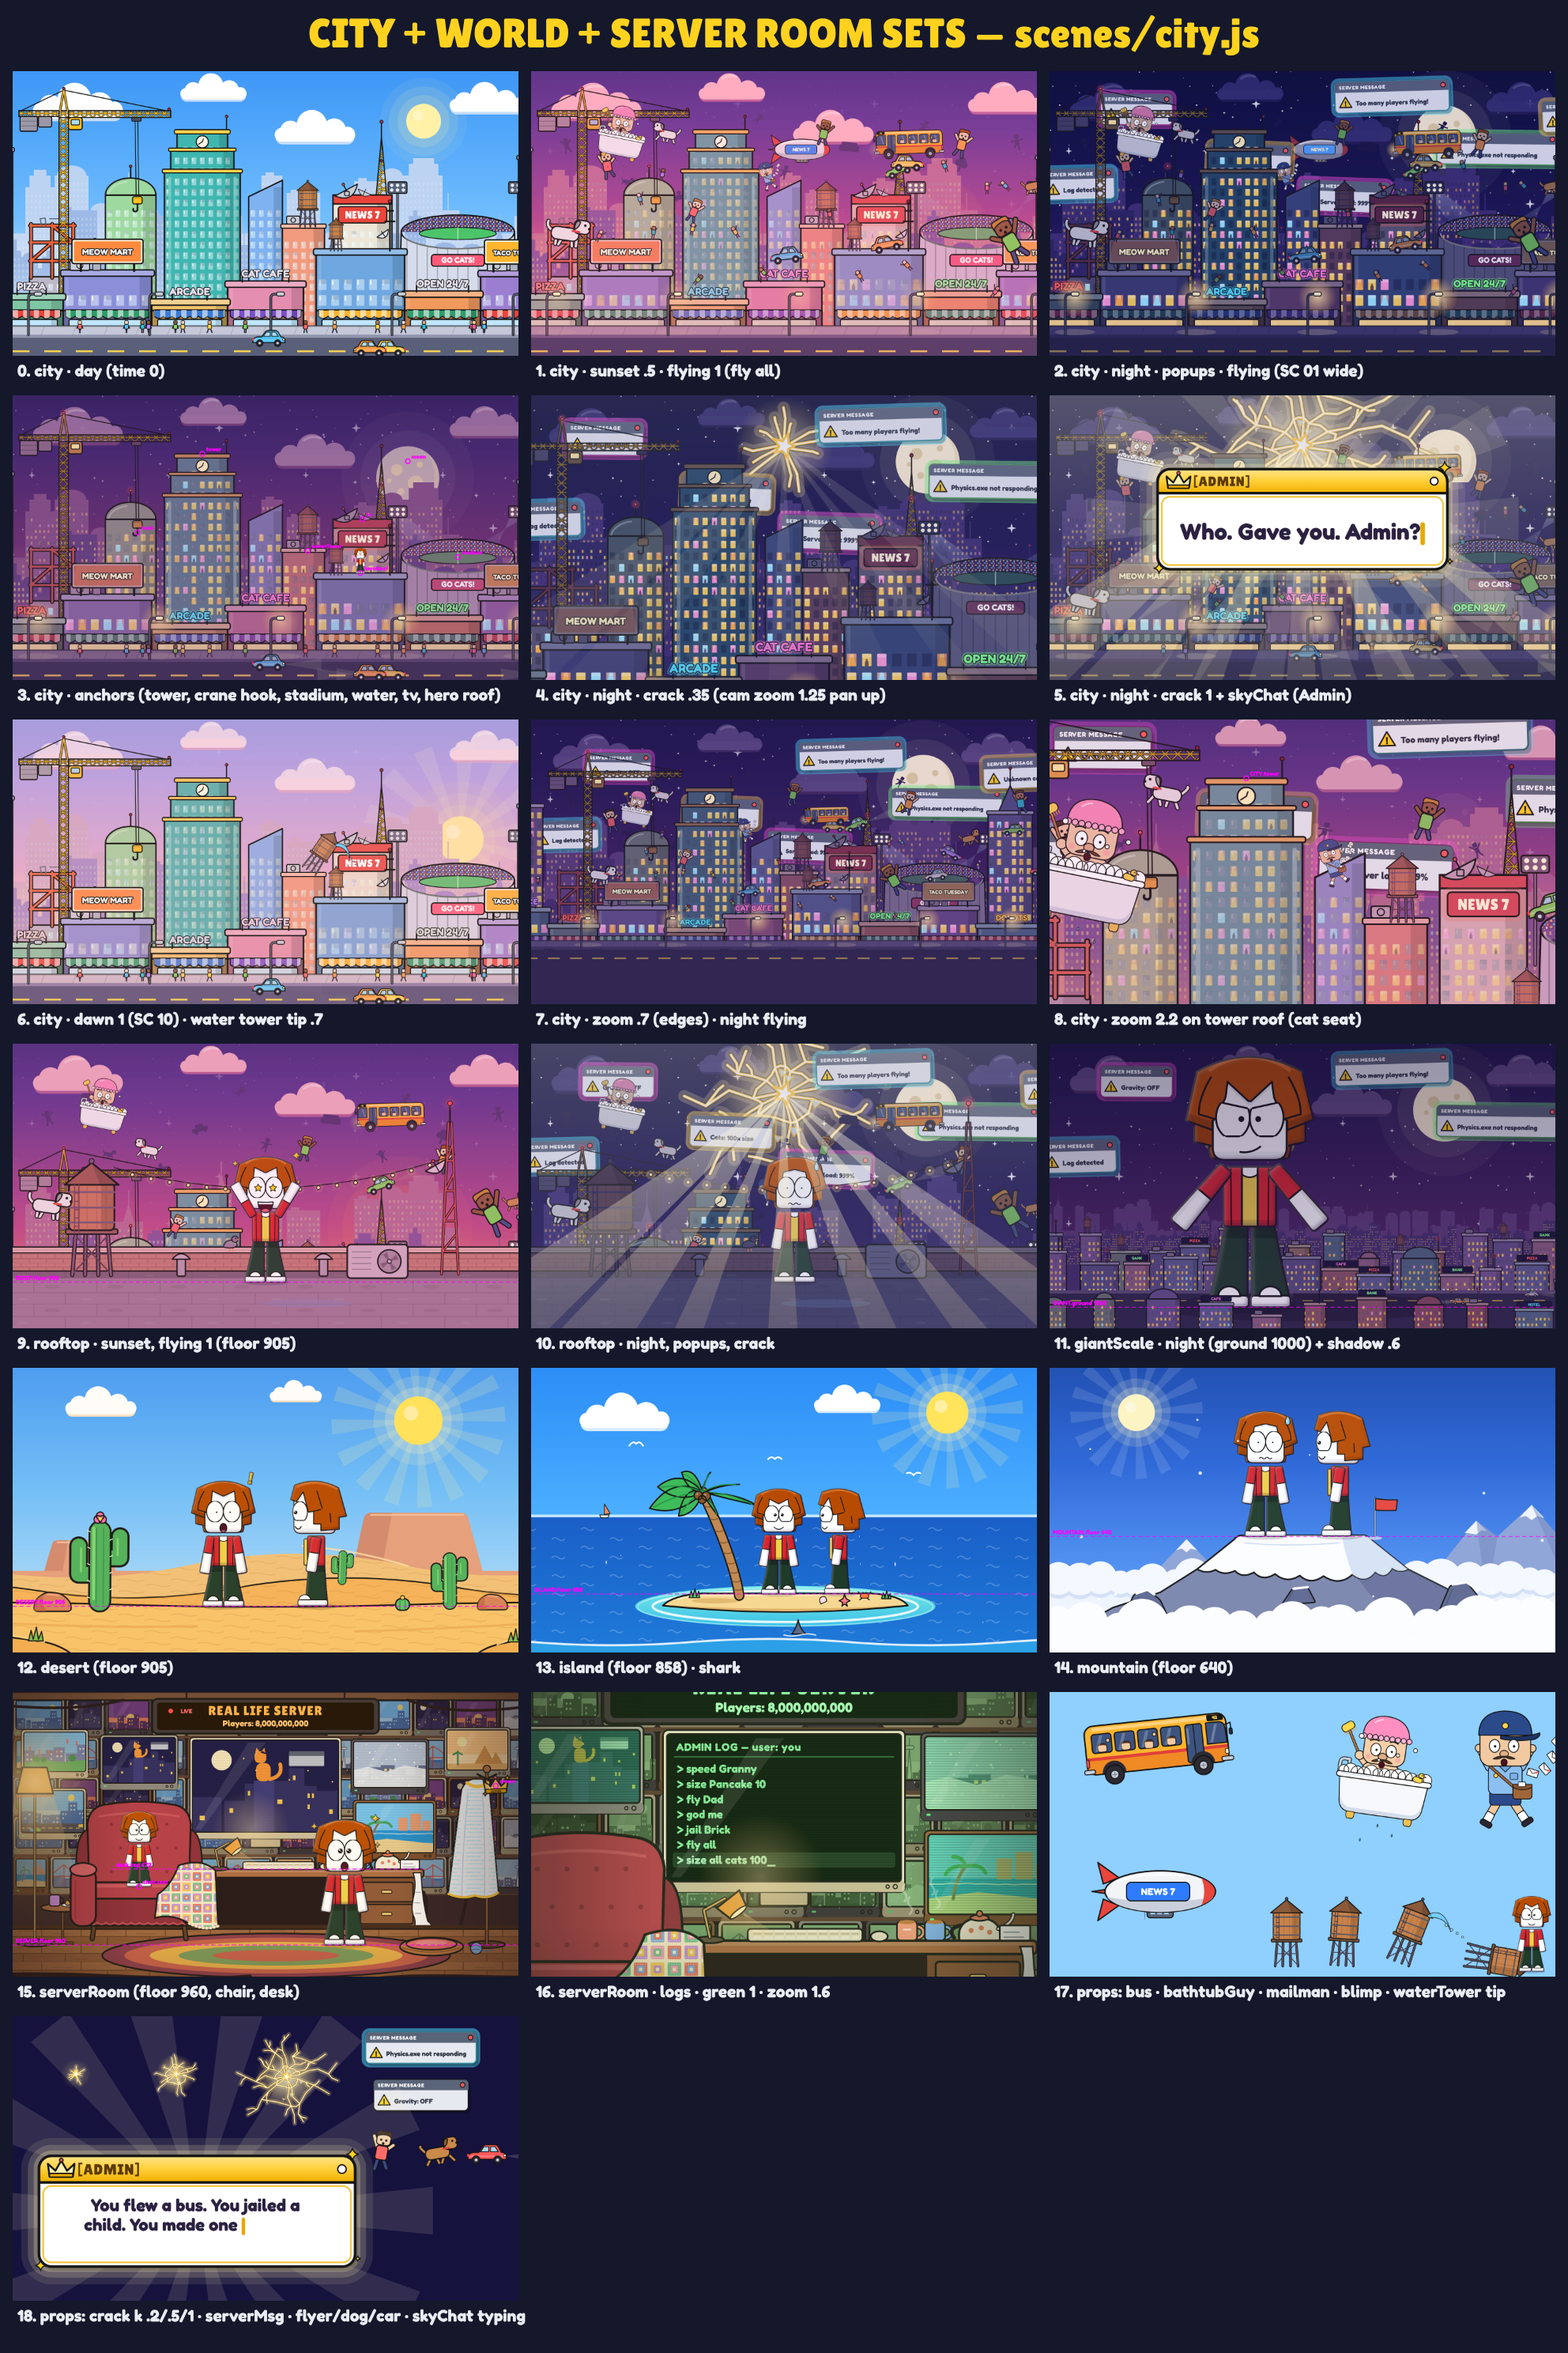
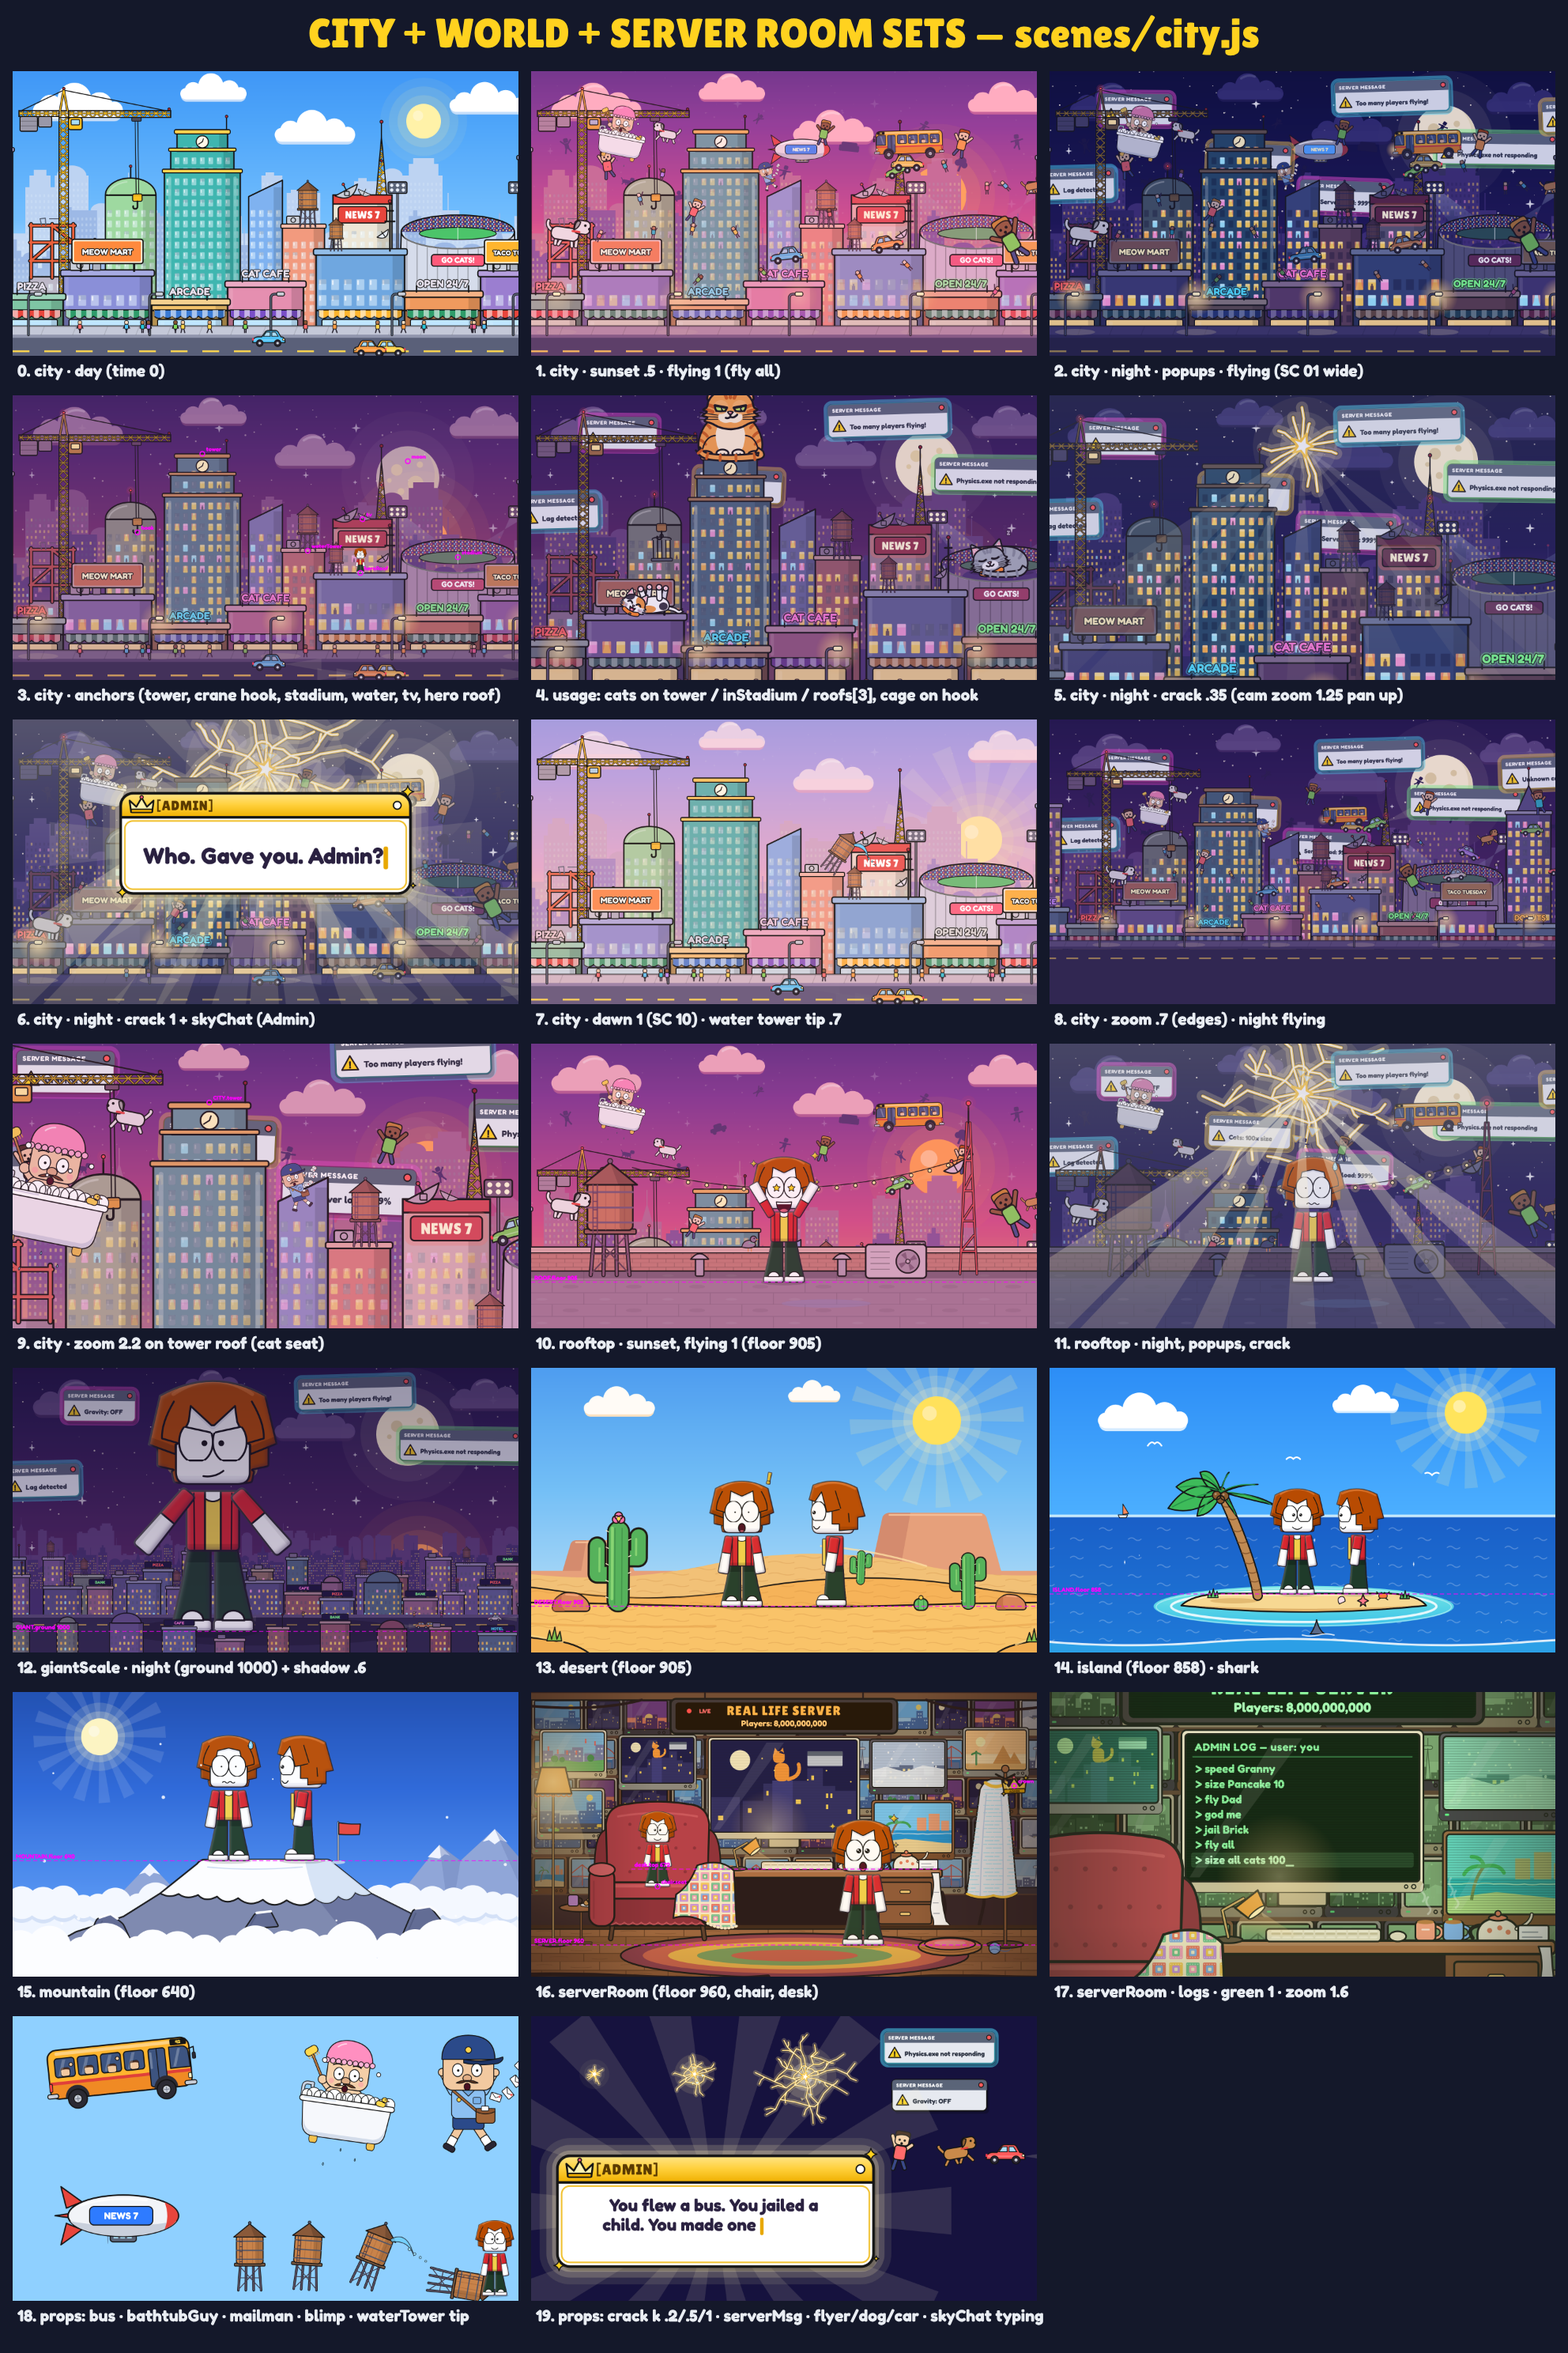
Admin Commands: city, world and server-room sets
Claude-Session: https://claude.ai/code/session_01KRjzSfrZpgfkUyxGDDGG7C

diff --git a/admin-commands/scenes/city.js b/admin-commands/scenes/city.js
@@ -1,4 +1,72 @@
-// HEADER_PLACEHOLDER
+// Shared CITY (SC 01, SC 06–SC 08, SC 10), TELEPORT-CHASE (SC 08) and SERVER ROOM (SC 09–SC 10) background sets.
+// Contact sheet: `node tools/city_sheet.js [filter] [--dir <folder>] [--time]` → concept/sets_city.png (magenta = floors/anchors).
+//
+// CONVENTIONS
+// - World space = the 1920x1080 frame at the default camera ({zoom:1, x:0, y:0}). `t` = absolute seconds (idle motion only).
+// - Every set is (t, cam, opts) → Layers { bg, mid, fg, light } ALREADY seen through the camera. Each sub-layer carries its own
+//   parallax k and the camera is applied to EVERY layer (washes, roads, floors too), so zoomed / panned / shaken cameras never
+//   show an unwashed or empty edge. cam = { zoom, x, y, fx, fy, sx, sy } (sx/sy = shake offset), as for K.camKeys / K.view.
+//       const L = CS.city(t, cam, { time: 1, flying: 1 });
+//       return L.bg + L.mid + K.view(cam, onLandmarks, CS.KF.mid) + L.fg + K.view(cam, chars, 1) + L.light;   // String(L) = all 4
+//   `light` = colour washes (time of day, the Admin's light, crack beams, lamp glow): draw it LAST so characters get tinted too.
+// - ANCHORS are in LAYER coordinates and carry that layer's k: draw things that sit on a landmark with K.view(cam, svg, a.k)
+//   between L.mid and L.fg; toScreen(cam, a) → its screen point right now (at the default cam layer coords = screen coords).
+// - Props return plain SVG (no camera): bus, bathtubGuy, waterTower, blimp, mailman, flyer, dog, car, tinyPerson, saguaro,
+//   tumbleweed, crack, serverMsg, skyChat; crt / liveScreen / logScreen / thumb (monitor bits). All props take opts.tint+tintK.
+// - Static <defs> in DEFS (ids `city*`), loaded by main.js. No filters / masks / blend modes, no big radial gradients; a few
+//   clipPaths (monitor screens). All windows of a layer are ONE pattern path (each pattern element costs Chromium a few ms).
+//   Perf (`--time`, most tiles incl. a hero): city 40–65 ms, rooftop 55–70, giantScale ~65, chase 35–50, server room 40–55;
+//   ≤ ~650 elements (≈ 710 at zoom .5 with every option on).
+//
+// city(t, cam, opts) — a lively mid-size city, wide side view (sky, 2 far skyline rows, mid towers + landmarks, near shop row, street).
+//   opts.time 0 day → .5 sunset (pink/purple) → 1 night (lit windows, neon signs, stars, big moon) · dawn 0..1 (soft pink-gold
+//     morning, use with time 1) · flying 0..1 (people, dogs, cars, a sofa, a tree, the mailman, a BUS and the BATHTUB GUY rise from
+//     behind the buildings and drift; sidewalk people and cars float up too) · popups 0..1 (grey SERVER MESSAGE windows pop in one by
+//     one, neon-rimmed at night) · crack 0..1 (the sky cracks like glass from crackAt {x, y} (k .04 ≈ screen), radius crackR 560,
+//     light beams + cold white-gold wash) · admin 0..1 (the Admin's cold white-gold light without a crack) · blimp (true |
+//     {x, y, s, text, flip, rot}) · waterTip 0..1, waterFall 0..1 (the rooftop water tower tips over, then drops off its roof) ·
+//     hookLen 330, hookSwing 4 (deg), hookX 470 (crane) · street (false: no cars / people) · flyMid, flyNear (false hides a group)
+//     · onSky (svg at k .04 AFTER the crack, i.e. behind the skyline: the Admin coming out of it) · onMid (svg, mid-layer coords,
+//     after the towers) · inStadium (svg inside the stadium bowl: between the stands and the front wall) · onNear (near-layer coords).
+//   Layers: bg = sky, sun/moon, clouds, crack, far skyline, far flyers, blimp, pop-ups · mid = mid towers + landmarks (k .4), mid
+//     flyers (k .55) · fg = near row (k .75), street (k 1), near flyers (k 1.15) · light. L.pal = the palette used.
+//   KF (parallax): sky 0, sun .03, crack .04, cloud .06, far2 .1, far .18, flyFar .26, pop/blimp .3, mid .4, flyMid .55, near .75, street 1, flyNear 1.15.
+//   ANCHORS CITY.*:
+//     tower {x 720, y 222} k .4      flat roof of the tall teal tower (roof x 616..824) — the giant-cat seat (pancake({x, y, s≈1}))
+//     craneHook(t, opts) → {x, y, rot, k .4}  the swaying hook bend (default ≈ {470, 520}); hang the cage's ring there, rotate by rot
+//     stadium {x 1690, y 614, rx 215} k .4   middle of the pitch (bowl x 1475..1905, rim y 610); a cat IN it → opts.inStadium
+//     waterTower {x 1120, y 590, s .42} k .4  feet of the rooftop water tower (coral roof x 1024..1184, tips to the right)
+//     tv {x 1328, y 470, sign {1328, 545}, dish {1270, 450}} k .4   NEWS 7 station roof
+//     heroRoof {x 1320, y 674, x0 1160, x1 1480} k .75   the hero's roof in the wide (it has the tank + antenna of rooftop())
+//     moon {1500, 250, r 120} k .03 · crack {960, 190, r 560} k .04 · blimp {1010, 300, s .4} k .3
+//     street {y 990 (sidewalk feet), laneR 1044, laneL 1082 (bottom of the wheels)} k 1
+//     roofs[] = near-row roofs {x0, x1, y, k .75} (cats lounging) · midRoofs[] = flat mid roofs {x0, x1, y, k .4} (+ tv, tower)
+// rooftop(t, cam, opts) — the hero's roof high above the city (SC 06 "king of the city"). Same opts as city(); the city behind is
+//   seen from up high (far skyline +ROOF.dyFar 170, mid towers +ROOF.dyMid 330: add dyMid to CITY mid anchors' y here).
+//   FLOOR ROOF.floor 905 (brick parapet y 790..862 behind the hero, deck from 862). ROOF.tank (big water tank, x 300),
+//   ROOF.antenna {x 1660, top 300} (red light), AC unit, vents, string lights (glow at night), ROOF.pigeon. Layers: bg = sky + city,
+//   mid = the deck, fg = near flyers (bus, bathtub guy), light.
+// giantScale(t, cam, opts) — low angle for the size duel: three rows of tiny rooftops, giants stand on GIANT.ground 1000 (the
+//   front row = fg hides their feet). Same sky opts as city() (default time .88) + shadow 0..1 (a giant boot's shadow + darkening),
+//   shadowX. Layering: L.bg + giants + L.fg + L.light (mid is empty).
+// skyChat(x, y, w, h, t, opts) — the Admin's gigantic white-and-gold chat window (centre x, y). opts: text (wraps on spaces or
+//   '\n'), progress 0..1 (letters typed; layout never shifts while typing), glow 0..1, user 'ADMIN', size (font px), k (pop-in),
+//   cursor, s, rot. Glue it to the crack with K.view(cam, skyChat(...), CS.KF.crack) and descend it from CITY.crack.
+// crack(x, y, r, k, opts{glow, rot}) — standalone glass crack overlay (rays → branches → web rings, glowing hole, shards).
+// desert / island / mountain (t, cam, opts) — teleport-chase beats. Shared opts: admin 0..1 (Admin light), flash 0..1 (white).
+//   desert:   FLOOR DESERT.floor 905, stand x 560..1360; opts heat (shimmer), tumble (tumbleweed). Big saguaro x 330, mesas, sun.
+//   island:   FLOOR ISLAND.floor 858, stand x 840..1260 (palm x 650..800); opts shark (a fin circles the island). fg = front waves.
+//   mountain: FLOOR MOUNTAIN.floor 640, summit x 720..1200 (flag at 1236; opts flag, snow 0..1); fg = clouds below (k 1.15).
+// serverRoom(t, cam, opts) — the Admin's small warm amber room: walls of old CRT monitors (pattern) + 6 live monitors, header
+//   "REAL LIFE SERVER — Players: 8,000,000,000", main CRT, keyboard desk, huge red armchair + knitted blanket, tea, teapot, cat
+//   bed, floor lamp, coat rack with the golden ADMIN crown and the white robe of code.
+//   opts: logs [strings] (main screen = command log, newest last, blinking cursor) · logTitle · mainScreen (svg, 0..556 x 0..350)
+//     · screens [svg] (override SERVER.monitors[i], local 0..w-24 x 0..h-40) · green 0..1 (screens + glow turn green) · lamp 0..1
+//     · crown (true = on its hook) · cloak (true) · steam (tea) · players ('8,000,000,000').
+//   FLOOR SERVER.floor 960. chair {x 480, seat 738, back 432, s .3}: L.bg + oldman({x, y: seat, s .3}) + L.mid (arms + blanket)
+//     + hero + L.fg + L.light. desk {top 672, x0 380, x1 1560}, keyboard {1010, 660}, mugs [{1252, 672}, {1318, 672}],
+//     screen {682, 182, 556 x 350}, header {960, 92}, crown {1834, 356}, cloak {1764, 330}, catBed {1590, 966}, lamp {84, 330}.
+// FLOOR = { street 990, heroRoof 674, rooftop 905, giant 1000, desert 905, island 858, mountain 640, server 960 }.
 'use strict';
 
 const K = require('./kit');
@@ -346,7 +414,11 @@ function crack(x, y, r, k, opts = {}) {
   const { glow = 1, rot = 0 } = opts;
   const d = crackD(r, k), sw = clamp(r / 420, 0.45, 2.4);
   let o = '';
-  if (glow > 0) o += Ci(0, 0, r * (0.22 + 0.32 * k), { fill: 'url(#cityGlowGold)', opacity: f(0.8 * glow * Math.min(1, k * 2)) });
+  if (glow > 0) {
+    // halo as concentric translucent discs (a radial gradient this big costs tens of ms)
+    const g = glow * Math.min(1, k * 2), rr = r * (0.22 + 0.32 * k);
+    o += Ci(0, 0, rr, op('#FFE9A0', 0.12 * g)) + Ci(0, 0, rr * 0.7, op('#FFF2C0', 0.16 * g)) + Ci(0, 0, rr * 0.45, op('#FFF8E0', 0.24 * g)) + Ci(0, 0, rr * 0.24, op('#FFFFFF', 0.45 * g));
+  }
   o += P(d, ln(34 * sw, '#FFE9A0', 0.25 * glow));
   o += P(d, ln(13 * sw, LINE, 0.4));
   o += P(d, ln(8.5 * sw, '#FFC93C'));

diff --git a/admin-commands/tools/city_sheet.js b/admin-commands/tools/city_sheet.js
@@ -37,7 +37,7 @@ const TILES = [
     const hr = C.toScreen(cam, A.heroRoof);
     return all(L) + hero(hr.x, hr.y, 0.5 * 0.2) + m;
   }],
-  ['usage: cats on CITY.tower / inStadium / CITY.roofs[3] + cage on craneHook', (t) => {
+  ['usage: cats on tower / inStadium / roofs[3], cage on hook', (t) => {
     const cats = require('../rig/cats');
     const cam = { zoom: 1.15, x: -120, y: -60 }, o = { time: 0.85, popups: 0.4 };
     const T = C.CITY.tower, St = C.CITY.stadium, h = C.craneHook(t, o);

diff --git a/admin-commands/ENGINE.md b/admin-commands/ENGINE.md
@@ -122,5 +122,5 @@ Render stills densely: at least one every ~1.5 s across your whole range, plus e
 ## Shared sets
 
 - **Home + school:** `scenes/sets.js` — read the index comment at the top of the file (every set, its opts and anchors), contact sheet `concept/sets_home.png`. Rooms: `set(t, opts)` or `set.layers(t, opts)` → `{ bg, mid, front, fg, light }`: draw `bg` (parallax k 0.5–0.8), `mid`, characters BEHIND furniture (seated / inside the fridge / behind a counter or desk), then `front` (furniture fronts), then characters on the FLOOR line, then `fg` (k 1.15–1.3), then `light` (night/evening overlay) LAST so characters are darkened too. Street-type sets (`street`, `serverStreet`, `hallway`) take the camera themselves. Use `FLOOR` (feet y) and `SPOTS` (anchors: laptop screen, ceiling y 100, fridge inside, window exit, couch seats, lunch line, pick line, cage spot, office hole…) so every scene places characters the same way. Exteriors are wide shots: characters there are small (s ≈ 0.22–0.3). `adminScreen(t, o)` returns a `fn(w, h)` for screens.
-- **City + world + server room:** `scenes/city.js` (index at the top; contact sheet `concept/sets_city.png`) — being finished; same conventions.
+- **City + world + server room:** `scenes/city.js` (index at the top; contact sheet `concept/sets_city.png`). Every set is `(t, cam, opts)` and returns `{ bg, mid, fg, light }` ALREADY seen through the camera: compose `L.bg + L.mid + K.view(cam, chars, 1) + L.fg + L.light` (light last). `city` opts: `time` 0 day / 0.5 sunset / 1 night, `dawn`, `flying`, `popups`, `crack` + `crackAt`, `admin` (white-gold light), `blimp`, `waterTip`/`waterFall`, crane `hookLen`/`hookSwing`, insertion slots `onSky` (e.g. the Admin coming out of the crack), `onMid`, `inStadium`, `onNear`, `flyNear: false` to clear the near sky. Anchors in `CITY` (tower roof for a giant cat, crane hook → `craneHook(t, opts)`, stadium, water tower, TV station, hero roof, moon, crack, street, `roofs[]`/`midRoofs[]`) carry their layer parallax k; `toScreen(cam, anchor)` gives the screen point. Other sets: `rooftop` (floor 905), `giantScale` (giants stand on y 1000, front roofs hide feet; `shadow`), `desert` (floor 905), `island` (floor 858), `mountain` (summit floor 640), `serverRoom` (floor 960; `logs`, `green`, `crown`; order `L.bg` + old man in the chair + `L.mid` + hero + `L.fg` + `L.light`; `SERVER.chair/desk/keyboard/screen/crown`). `skyChat(x, y, w, h, t, { text, progress, glow, user, k })` is the Admin's giant sky chat (glue it to the crack with `K.view(cam, skyChat(...), 0.04)`). Props: `bus`, `bathtubGuy`, `waterTower`, `blimp`, `mailman`, `crack`, `flyer`, `dog`, `car`, `tinyPerson`, `serverMsg`, `tumbleweed`.
 
